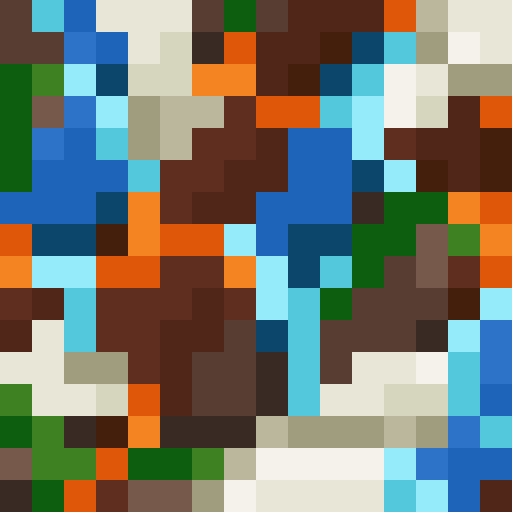
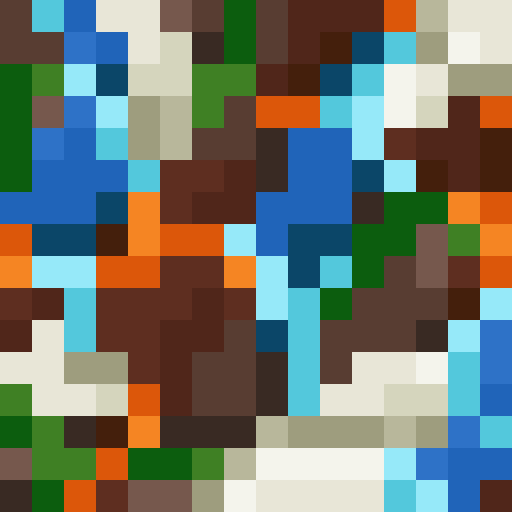
Add yellow & gray frog

Changed region(s): [[0.375, 0.0625, 0.5, 0.25], [0.3125, 0.0, 0.375, 0.0625]]

diff --git a/src/scenes/Start.js b/src/scenes/Start.js
@@ -5,12 +5,11 @@ Angela Huang
 to-do:
 () [epic][feat] board movement
     - dice: figure out where to put, add keyboard shortcut, assign random num 1-5 for moves
-    - update #movePlayer: check if a fight should be started
+    - update #movePlayer: check if a fight should be started - for now just if the player has 0 moves left
 () [feat] add info text
+() [feat] all element fight
 () [epic][feat] frog character customization
-    - add yellow frog
     - create accessories for frogs
-    - add gray frog for computer
     - customize character on menu screen
 () [feat] multiplayer
 () [dev][enhance] direction message for win by 4 elements of a direction
@@ -84,12 +83,13 @@ export class Start extends Phaser.Scene
             [SCREEN_MIDDLE_X-2*SPACE_SIZE,SCREEN_MIDDLE_Y]
         ]
         let randSpawn = Math.floor(Math.random()*4);
-        console.log("spawn: ", randSpawn);
+        let compSpawn = (randSpawn+2)%4;
+        console.log("p1 spawn: ", randSpawn, "p2 spawn: ", compSpawn);
 
         this.#generateBoard(spawns);
 
-        this.p1 = new Player("candycane123",this.selectedFrog,this,768,336,7,spawns[randSpawn][0],spawns[randSpawn][1]);
-        this.p2 = new Player("Computer",'frog-blue',this,160);
+        this.p1 = new Player("candycane123",this.selectedFrog,this,spawns[randSpawn][0],spawns[randSpawn][1],768,336,7);
+        this.p2 = new Player("Computer",'frog-gray',this,spawns[compSpawn][0],spawns[compSpawn][1],160);
 
 
         console.log(this.p1);

diff --git a/src/scenes/Menu.js b/src/scenes/Menu.js
@@ -1,7 +1,8 @@
 const FROG_SCALE = 0.1875;
+const FROG_SIZE = 1024*FROG_SCALE;
 const SCREEN_WIDTH = 1024;
 const SCREEN_HEIGHT = 768;
-const GAP = 64;
+const GAP = 48;
 
 export class Menu extends Phaser.Scene
 {
@@ -15,6 +16,8 @@ export class Menu extends Phaser.Scene
         this.load.image('frog-blue','assets/frogs/frog-blue.png');
         this.load.image('frog-green','assets/frogs/frog-green.png');
         this.load.image('frog-red','assets/frogs/frog-red.png');
+        this.load.image('frog-yellow','assets/frogs/frog-yellow.png');
+        this.load.image('frog-gray','assets/frogs/frog-gray.png')
     }
 
     create()
@@ -22,9 +25,10 @@ export class Menu extends Phaser.Scene
         this.cameras.main.setBackgroundColor('#DDD');
 
         const frogs = [
-            { key: 'frog-blue', x: SCREEN_WIDTH/2-GAP-192 },
-            { key: 'frog-green', x: SCREEN_WIDTH/2 },
-            { key: 'frog-red', x: SCREEN_WIDTH/2+GAP+192 }
+            { key: 'frog-blue', x: SCREEN_WIDTH/2-GAP*3/2-FROG_SIZE*3/2 },
+            { key: 'frog-green', x: SCREEN_WIDTH/2-GAP/2-FROG_SIZE/2 },
+            { key: 'frog-red', x: SCREEN_WIDTH/2+GAP/2+FROG_SIZE/2 },
+            { key: 'frog-yellow', x: SCREEN_WIDTH/2+GAP*3/2+FROG_SIZE*3/2 }
         ];
 
         frogs.forEach(frog => {

diff --git a/src/scenes/Common.js b/src/scenes/Common.js
@@ -23,7 +23,7 @@ const CARD_SIZE = 64;
 const GAP = 16;
 
 export class Player {
-    constructor(name,frog,scene,equipX,equipY = 336,handSize = 7, x = 0, y = 0) {
+    constructor(name, frog, scene, x, y, equipX, equipY = 336,handSize = 7) {
         this.name = name;
         // this.avatar = avatar;
         this.scene = scene;
